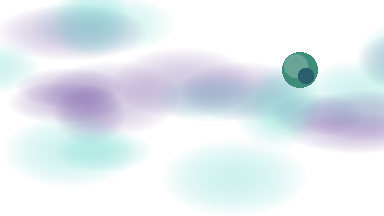
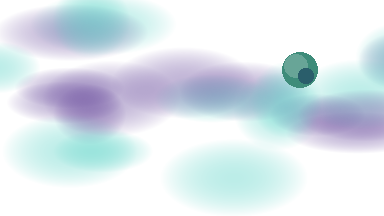
art: parallax mais visível pela janela e placeholder do espaço com mais estrelas

Changed region(s): [[0.125, 0.3611, 0.3125, 0.5556], [0.8125, 0.5556, 1.0, 0.6389], [0.2188, 0.0833, 0.25, 0.1111]]

diff --git a/docs/design/GDD.md b/docs/design/GDD.md
@@ -600,8 +600,8 @@ Toda vez que a dificuldade sobe demais, o jogador ganha um upgrade que faz o con
 | `PARALLAX_FAR_SCALE` | Vector2(0.04, 0.02) | fator | AJ-022 |
 | `PARALLAX_MID_SCALE` | Vector2(0.18, 0.09) | fator | AJ-022 |
 | `PARALLAX_NEAR_SCALE` | Vector2(0.55, 0.28) | fator | AJ-022 |
-| `PARALLAX_FAR_DIM` | 0.45 | fator | AJ-022 |
-| `PARALLAX_MID_DIM` | 0.7 | fator | AJ-022 |
+| `PARALLAX_FAR_DIM` | 0.75 | fator | AJ-022 |
+| `PARALLAX_MID_DIM` | 0.9 | fator | AJ-022 |
 | `SECTOR_FLASH_TIME` | 0.12 | s | AJ-022 |
 | `SECTOR_SETTLE_TIME` | 1.2 | s | AJ-022 |
 | `SECTOR_FLASH_COLOR` | Color("e8f4ff") | cor | AJ-022 |
